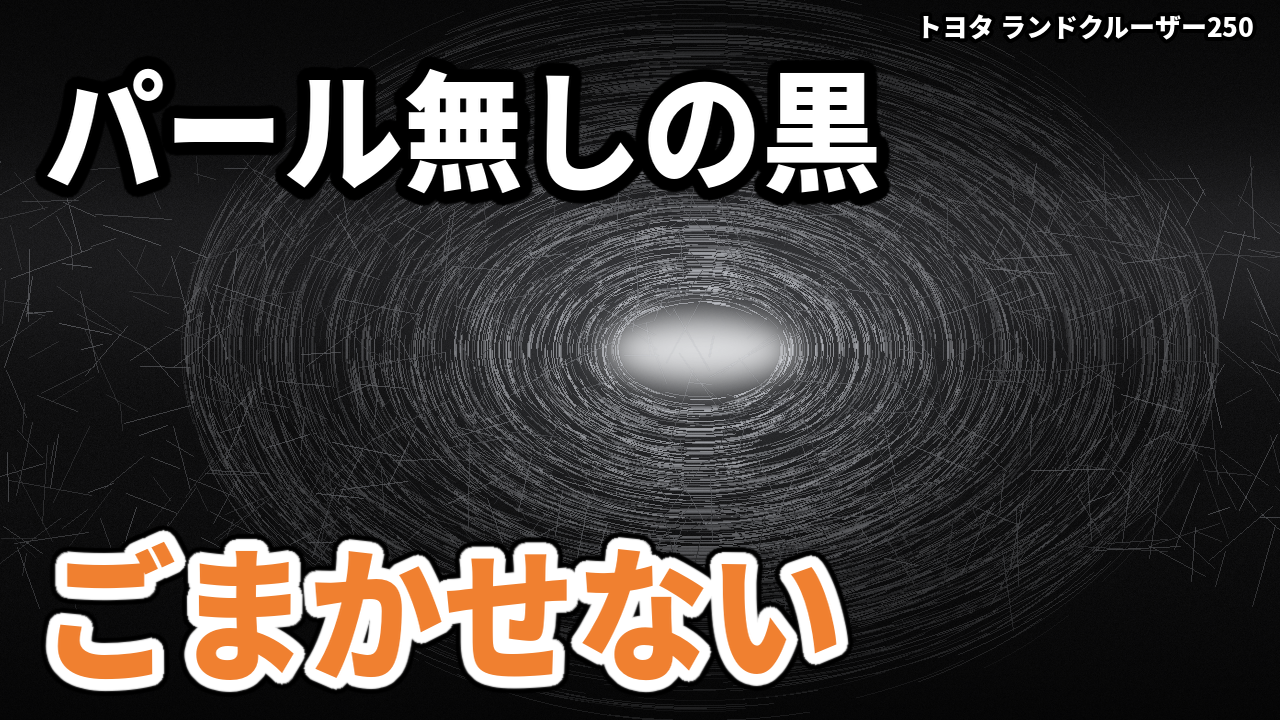
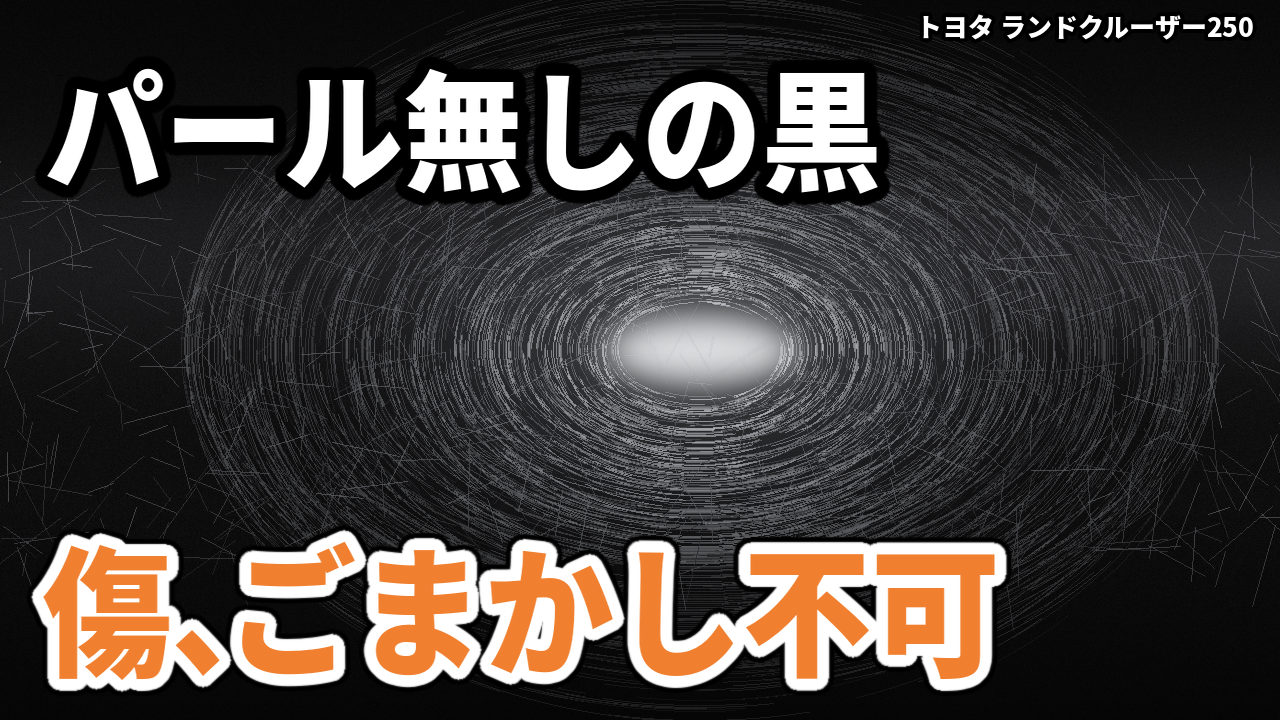
BPP ランクル250 洗車傷の回：B をTak確定版（パール無しの黒／傷、ごまかし不可）に、読点を詰め、シートをA/B/Cの3案に
Claude-Session: https://claude.ai/code/session_01VjwRN8DxhXyDc2krxHtZnD

Changed region(s): [[0.0, 0.7333, 0.8125, 0.9778]]

diff --git a/COO/scripts/bpp_thumb_lc250_scratch.py b/COO/scripts/bpp_thumb_lc250_scratch.py
@@ -24,18 +24,54 @@ import sys
 from PIL import Image, ImageDraw, ImageFilter, ImageFont
 
 sys.path.insert(0, os.path.dirname(os.path.abspath(__file__)))
+import bpp_thumb_comps  # noqa: E402
 from bpp_thumb_comps import (H, LOWER_BOX, NAVY, ORANGE, RED, UPPER_BOX, W, add_reflection, badge,  # noqa: E402
                              black_paint, car_name_layer, condensed_block, red_arrow)
 
 # 上段は 2026-10-12 版の枠を 3px 上げる（縁取りのにじみが中段 y210 にかからないように）
 UPPER_BOX = (UPPER_BOX[0], UPPER_BOX[1] - 3, UPPER_BOX[2], UPPER_BOX[3] - 3)
 
-SHEET_ORDER = ("A", "B", "B2", "C")  # コンタクトシートに並べる順
+SHEET_ORDER = ("A", "B", "C")  # コンタクトシートに並べる順（B2 はファイルだけ残す）
+
+# 句読点（、。）は全角の箱の右半分が空いていて字間が間延びするので、字面の右端＋少しで次の字へ送る
+TIGHT_PUNCT = "、。"
+TIGHT_GAP = 0.06  # 句読点の後ろに残す空き（文字サイズに対する比）
+_orig_text_mask = bpp_thumb_comps._text_mask
+
+
+def _ink_right(c, font):
+    """字面（インク）の右端。font.getbbox は送り幅いっぱいを返すので、実際に描いて測る。"""
+    w = int(font.getlength(c)) * 2
+    m = Image.new("L", (w, w), 0)
+    ImageDraw.Draw(m).text((0, 0), c, font=font, fill=255)
+    return m.getbbox()[2]
+
+
+def _tight_text_mask(text, font_path, size):
+    if not any(c in TIGHT_PUNCT for c in text):
+        return _orig_text_mask(text, font_path, size)  # 句読点なしは従来どおり（A・C は変わらない）
+    font = ImageFont.truetype(font_path, size)
+    pad = 4
+    x = 0.0
+    pos = []
+    for c in text:
+        pos.append(x)
+        x += _ink_right(c, font) + size * TIGHT_GAP if c in TIGHT_PUNCT else font.getlength(c)
+    l, t, _, b = font.getbbox(text)
+    m = Image.new("L", (int(x) + pad * 2 + size, b - t + pad * 2), 0)
+    d = ImageDraw.Draw(m)
+    for c, cx in zip(text, pos):
+        d.text((pad - l + cx, pad - t), c, font=font, fill=255)
+    bbox = m.getbbox()
+    return m.crop((0, 0, bbox[2] + pad, m.height))
+
+
+bpp_thumb_comps._text_mask = _tight_text_mask  # condensed_block がこの関数で字面を作る
 
 PATTERNS = [
     dict(label="A", upper="ディーラーコーティング", lower="1年後の黒ランクル", scene="swirl"),
     # B・B2（Tak案で差し替え）：Before/After なし。C と同じ 1 枚の黒ボディ＋洗車傷
-    dict(label="B", upper="パール無しの黒", lower="ごまかせない", scene="swirl_macro"),
+    dict(label="B", upper="パール無しの黒", lower="傷、ごまかし不可", scene="swirl_macro"),  # Tak 確定
     dict(label="B2", upper="パール無しの黒", lower="傷はごまかせない", scene="swirl_macro"),
     dict(label="C", upper="どこまで取れる？", lower="黒の洗車傷", scene="swirl_macro"),
     # A の別案（コンタクトシートには入れない）：Before/After にして「磨けば戻る」に寄せる
@@ -166,7 +202,7 @@ def main():
     tw, th, gap, cap = 560, 315, 24, 44
     sheet = Image.new("RGB", (gap + len(items) * (tw + gap), 70 + th + cap + gap), (244, 244, 244))
     d = ImageDraw.Draw(sheet)
-    d.text((gap, 18), "BPP ランクル250（黒）洗車傷の回｜サムネ4案（仮背景）",
+    d.text((gap, 18), "BPP ランクル250（黒）洗車傷の回｜サムネ3案（仮背景）",
            font=ImageFont.truetype(a.font, 30), fill=(20, 20, 20))
     f = ImageFont.truetype(a.font, 22)
     for i, (p, img) in enumerate(items):
